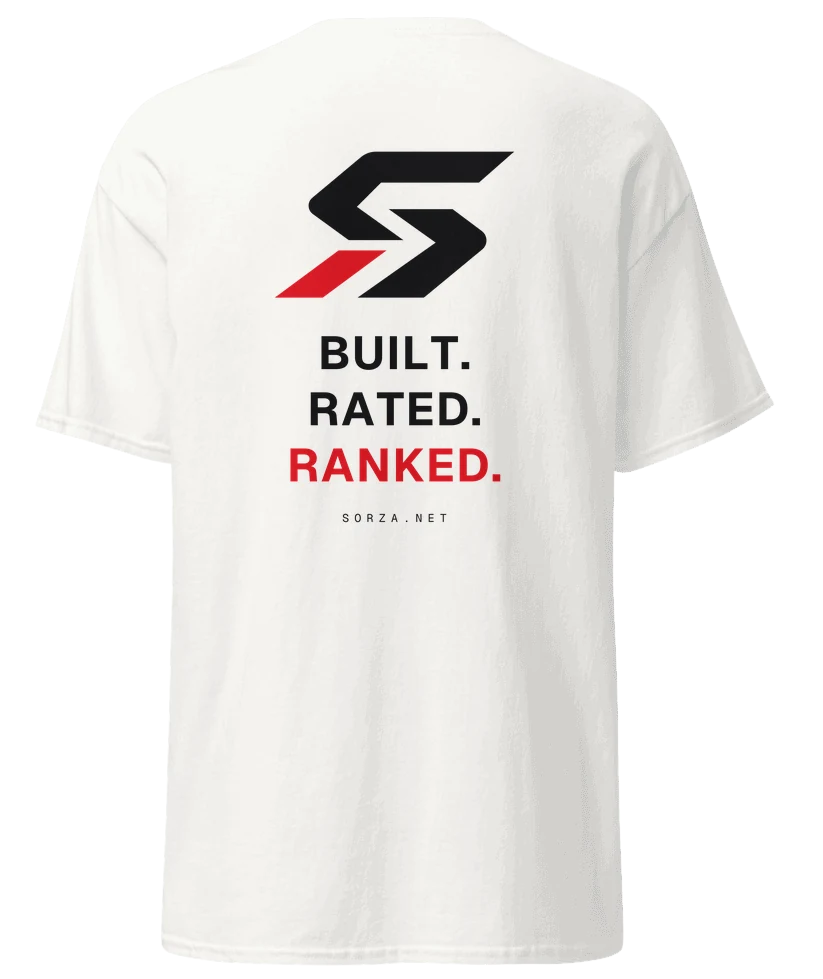
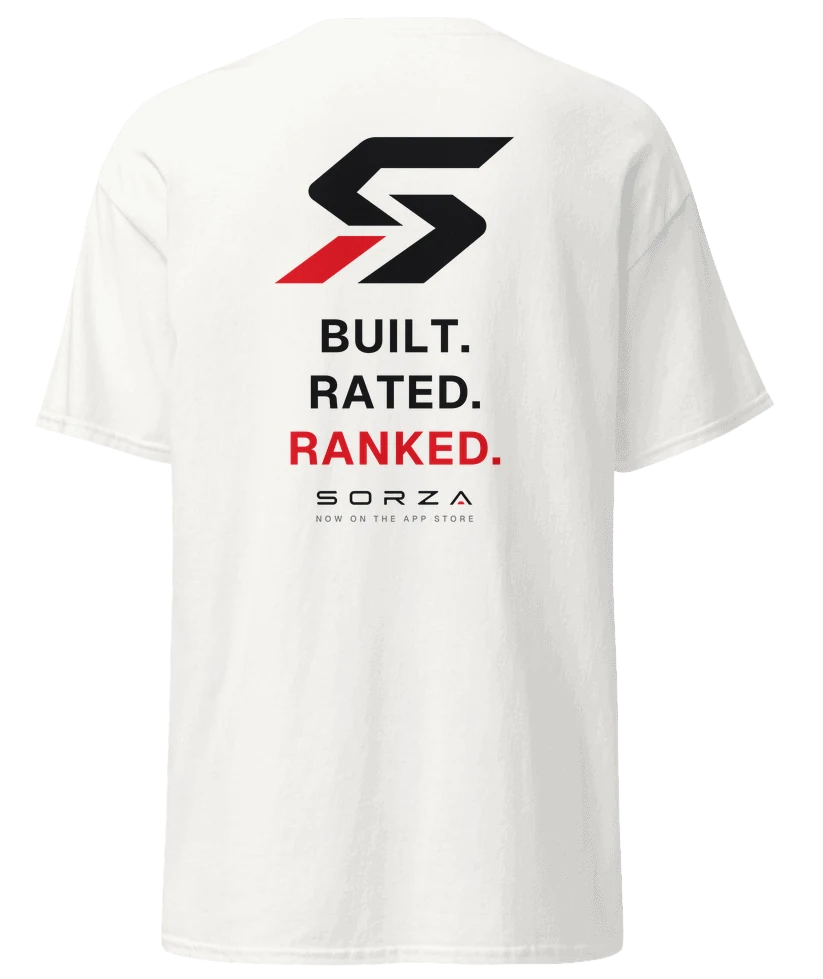
Put the SORZA wordmark and NOW ON THE APP STORE on the tee backs
Big S and Built. Rated. Ranked. now end with the wordmark logo over a small NOW ON THE APP STORE line, replacing sorza.net and the old App Store line. Shop images are rendered from the print files on Printful's Gildan 5000 template.

Changed region(s): [[0.3341, 0.1226, 0.6379, 0.5516]]

diff --git a/scripts/make-tee-print-files.py b/scripts/make-tee-print-files.py
@@ -31,6 +31,8 @@ INK = (17, 17, 20)  # near-black for the white shirt
 RED = (225, 20, 31)  # #E1141F, the logo's red
 GREY = (160, 160, 164)  # the App Store line: solid grey, not translucent white
 
+TAG_GREY = (110, 110, 116)  # the App Store line on the white shirt
+
 
 def s(v: float) -> int:
     return round(v * K)
@@ -91,6 +93,18 @@ def chest_mark(tmp: Path, tone: str) -> Image.Image:
     return c
 
 
+def app_store_tag(back: Image.Image, d: ImageDraw.ImageDraw, tmp: Path, y: float, tone: str, line_fill) -> None:
+    """The SORZA wordmark with NOW ON THE APP STORE under it, the two the
+    same width, at the foot of a back."""
+    f = font("Geist-Medium", 34)
+    text = "NOW ON THE APP STORE"
+    tracking = 12
+    width = (sum(d.textlength(c, font=f) for c in text) + s(tracking) * (len(text) - 1)) / K
+    word = logo(tmp, "word", tone, width)
+    centered(back, word, y)
+    spaced(d, 731, y + word.height / K + 30, text, f, line_fill, tracking)
+
+
 def big_s(tmp: Path) -> tuple[Image.Image, Image.Image]:
     front = canvas()
     centered(front, logo(tmp, "word", "white", 600), 280)
@@ -104,7 +118,7 @@ def big_s(tmp: Path) -> tuple[Image.Image, Image.Image]:
     f = font("Geist-Medium", 70)
     spaced(d, 731, y + 70, "THE SOCIAL NETWORK", f, WHITE, 22)
     spaced(d, 731, y + 170, "FOR CAR ENTHUSIASTS", f, WHITE, 22)
-    spaced(d, 731, y + 330, "AVAILABLE ON THE APP STORE", font("GeistMono-Regular", 46), GREY, 18)
+    app_store_tag(back, d, tmp, y + 320, "white", GREY)
     return front, back
 
 
@@ -112,11 +126,11 @@ def built_rated_ranked(tmp: Path) -> tuple[Image.Image, Image.Image]:
     front = chest_mark(tmp, "ink")
     back = canvas()
     d = ImageDraw.Draw(back)
-    centered(back, logo(tmp, "mark", "ink", 980), 400)
+    centered(back, logo(tmp, "mark", "ink", 980), 340)
     f = font("Geist-Bold", 190)
     for i, (word, color) in enumerate((("BUILT.", INK), ("RATED.", INK), ("RANKED.", RED))):
-        spaced(d, 731, 1100 + i * 230, word, f, color, 6)
-    spaced(d, 731, 1870, "SORZA.NET", font("GeistMono-Regular", 46), INK, 22)
+        spaced(d, 731, 1030 + i * 230, word, f, color, 6)
+    app_store_tag(back, d, tmp, 1785, "ink", TAG_GREY)
     return front, back
 
 
